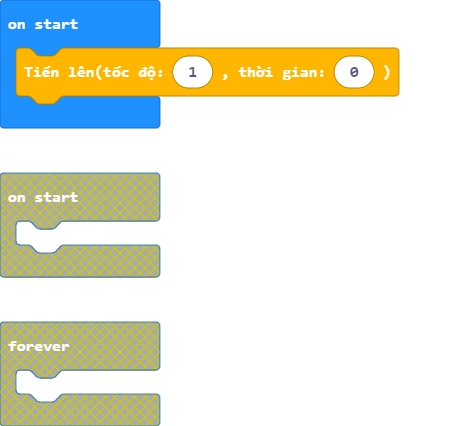
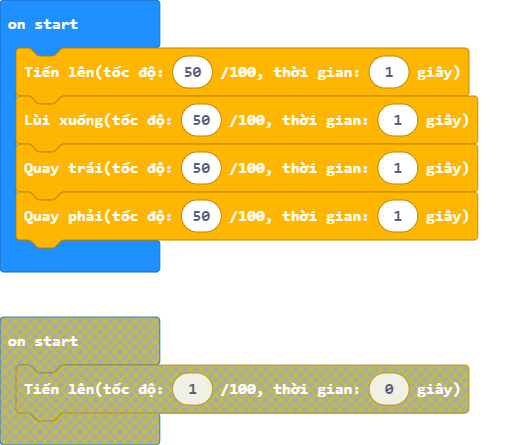
Added basic functions for Pretty car

diff --git a/custom.ts b/custom.ts
@@ -6,15 +6,56 @@
 
 // color: gold, icon: joy (rune)
 //% color="#FFB600" icon="\u16b9"
-//% groups="['Pretty car', 'Low-level functions']"
+//% groups="['Pretty car', 'Mobile shooter']"
 namespace BestbudKids {
-    //% block="Tiến lên(tốc độ: %speed, thời gian: %time)"
-    //% group="Pretty car"
-    //% speed.defl=1 speed.min=1 speed.max=255
+    //% block="Tiến lên(tốc độ: %speed /100, thời gian: %time giây)"
+    //% group="Pretty car" weight=4
+    //% speed.defl=50 speed.min=1 speed.max=100
+    //% time.defl=1 time.min=0 time.max=180
     export function moveForward(speed: number, time: number): void {
-        SuperBit.MotorRunDual(SuperBit.enMotors.M1, speed, SuperBit.enMotors.M3, speed);
+        SuperBit.startMotor(SuperBit.Motors.M1, speed);
+        SuperBit.startMotor(SuperBit.Motors.M3, speed);
         basic.pause(time);
         SuperBit.MotorStopAll();
+    }
+
+    //% block="Lùi xuống(tốc độ: %speed /100, thời gian: %time giây)"
+    //% group="Pretty car" weight=3
+    //% speed.defl=50 speed.min=1 speed.max=100
+    //% time.defl=1 time.min=0 time.max=180
+    export function moveBackward(speed: number, time: number): void {
+        SuperBit.startMotor(SuperBit.Motors.M1, -speed);
+        SuperBit.startMotor(SuperBit.Motors.M3, -speed);
+        basic.pause(time);
+        SuperBit.MotorStopAll();
+    }
+
+    //% block="Quay trái(tốc độ: %speed /100, thời gian: %time giây)"
+    //% group="Pretty car" weight=2
+    //% speed.defl=50 speed.min=1 speed.max=100
+    //% time.defl=1 time.min=0 time.max=180
+    export function turnLeft(speed: number, time: number): void {
+        SuperBit.startMotor(SuperBit.Motors.M1, -speed);
+        SuperBit.startMotor(SuperBit.Motors.M3, speed);
+        basic.pause(time);
+        SuperBit.MotorStopAll();
+    }
+
+    //% block="Quay phải(tốc độ: %speed /100, thời gian: %time giây)"
+    //% group="Pretty car" weight=1
+    //% speed.defl=50 speed.min=1 speed.max=100
+    //% time.defl=1 time.min=0 time.max=180
+    export function turnRight(speed: number, time: number): void {
+        SuperBit.startMotor(SuperBit.Motors.M1, speed);
+        SuperBit.startMotor(SuperBit.Motors.M3, -speed);
+        basic.pause(time);
+        SuperBit.MotorStopAll();
+    }
+
+    //% block
+    //% group="Mobile shooter"
+    export function foo(): void {
+        
     }
 }
 
@@ -132,7 +173,7 @@ namespace SuperBit {
         S7,
         S8
     }
-    export enum enMotors {
+    export enum Motors {
         M1 = 8,
         M2 = 10,
         M3 = 12,
@@ -329,15 +370,15 @@ namespace SuperBit {
        
 
     }
-    //% blockId=SuperBit_MotorRun block="Motor|%index|speed(-255~255) %speed"
+    //% blockId=SuperBit_startMotor block="Motor|%index|speed(-100~100) %speed"
     //% weight=93
-    //% speed.min=-255 speed.max=255
+    //% speed.min=-100 speed.max=100
     //% name.fieldEditor="gridpicker" name.fieldOptions.columns=4
-    export function MotorRun(index: enMotors, speed: number): void {
+    export function startMotor(index: Motors, speed: number): void {
         if (!initialized) {
             initPCA9685()
         }
-        speed = speed * 16; // map 255 to 4096
+        speed = speed * 40.96; // map 100 to 4096
         if (speed >= 4096) {
             speed = 4095
         }
@@ -372,15 +413,15 @@ namespace SuperBit {
     
 
 
-    //% blockId=SuperBit_MotorRunDual block="Motor|%motor1|speed %speed1|%motor2|speed %speed2"
+    //% blockId=SuperBit_startMotorDual block="Motor|%motor1|speed %speed1|%motor2|speed %speed2"
     //% weight=92
     //% blockGap=50
-    //% speed1.min=-255 speed1.max=255
-    //% speed2.min=-255 speed2.max=255
+    //% speed1.min=-100 speed1.max=100
+    //% speed2.min=-100 speed2.max=100
     //% name.fieldEditor="gridpicker" name.fieldOptions.columns=2
-    export function MotorRunDual(motor1: enMotors, speed1: number, motor2: enMotors, speed2: number): void {
-        MotorRun(motor1, speed1);
-        MotorRun(motor2, speed2);
+    export function startMotorDual(motor1: Motors, speed1: number, motor2: Motors, speed2: number): void {
+        startMotor(motor1, speed1);
+        startMotor(motor2, speed2);
     }
 
     //% blockId=SuperBit_StepperDegree block="Stepper Motor(28BYJ-48) |%index|degree %degree"
@@ -403,10 +444,10 @@ namespace SuperBit {
             initPCA9685()
         }
         
-        stopMotor(enMotors.M1);
-        stopMotor(enMotors.M2);
-        stopMotor(enMotors.M3);
-        stopMotor(enMotors.M4);
+        stopMotor(Motors.M1);
+        stopMotor(Motors.M2);
+        stopMotor(Motors.M3);
+        stopMotor(Motors.M4);
         
     }
 
@@ -429,12 +470,12 @@ namespace SuperBit {
         degree2 = Math.abs(degree2);
         basic.pause(10240 * Math.min(degree1, degree2) / 360);
         if (degree1 > degree2) {
-            stopMotor(enMotors.M3);
-            stopMotor(enMotors.M4);
+            stopMotor(Motors.M3);
+            stopMotor(Motors.M4);
             basic.pause(10240 * (degree1 - degree2) / 360);
         } else {
-            stopMotor(enMotors.M1);
-            stopMotor(enMotors.M2);
+            stopMotor(Motors.M1);
+            stopMotor(Motors.M2);
             basic.pause(10240 * (degree2 - degree1) / 360);
         }
 

diff --git a/main.ts b/main.ts
@@ -1,1 +1,4 @@
-BestbudKids.moveForward(1, 0)
+BestbudKids.moveForward(50, 1)
+BestbudKids.moveBackward(50, 1)
+BestbudKids.turnLeft(50, 1)
+BestbudKids.turnRight(50, 1)
